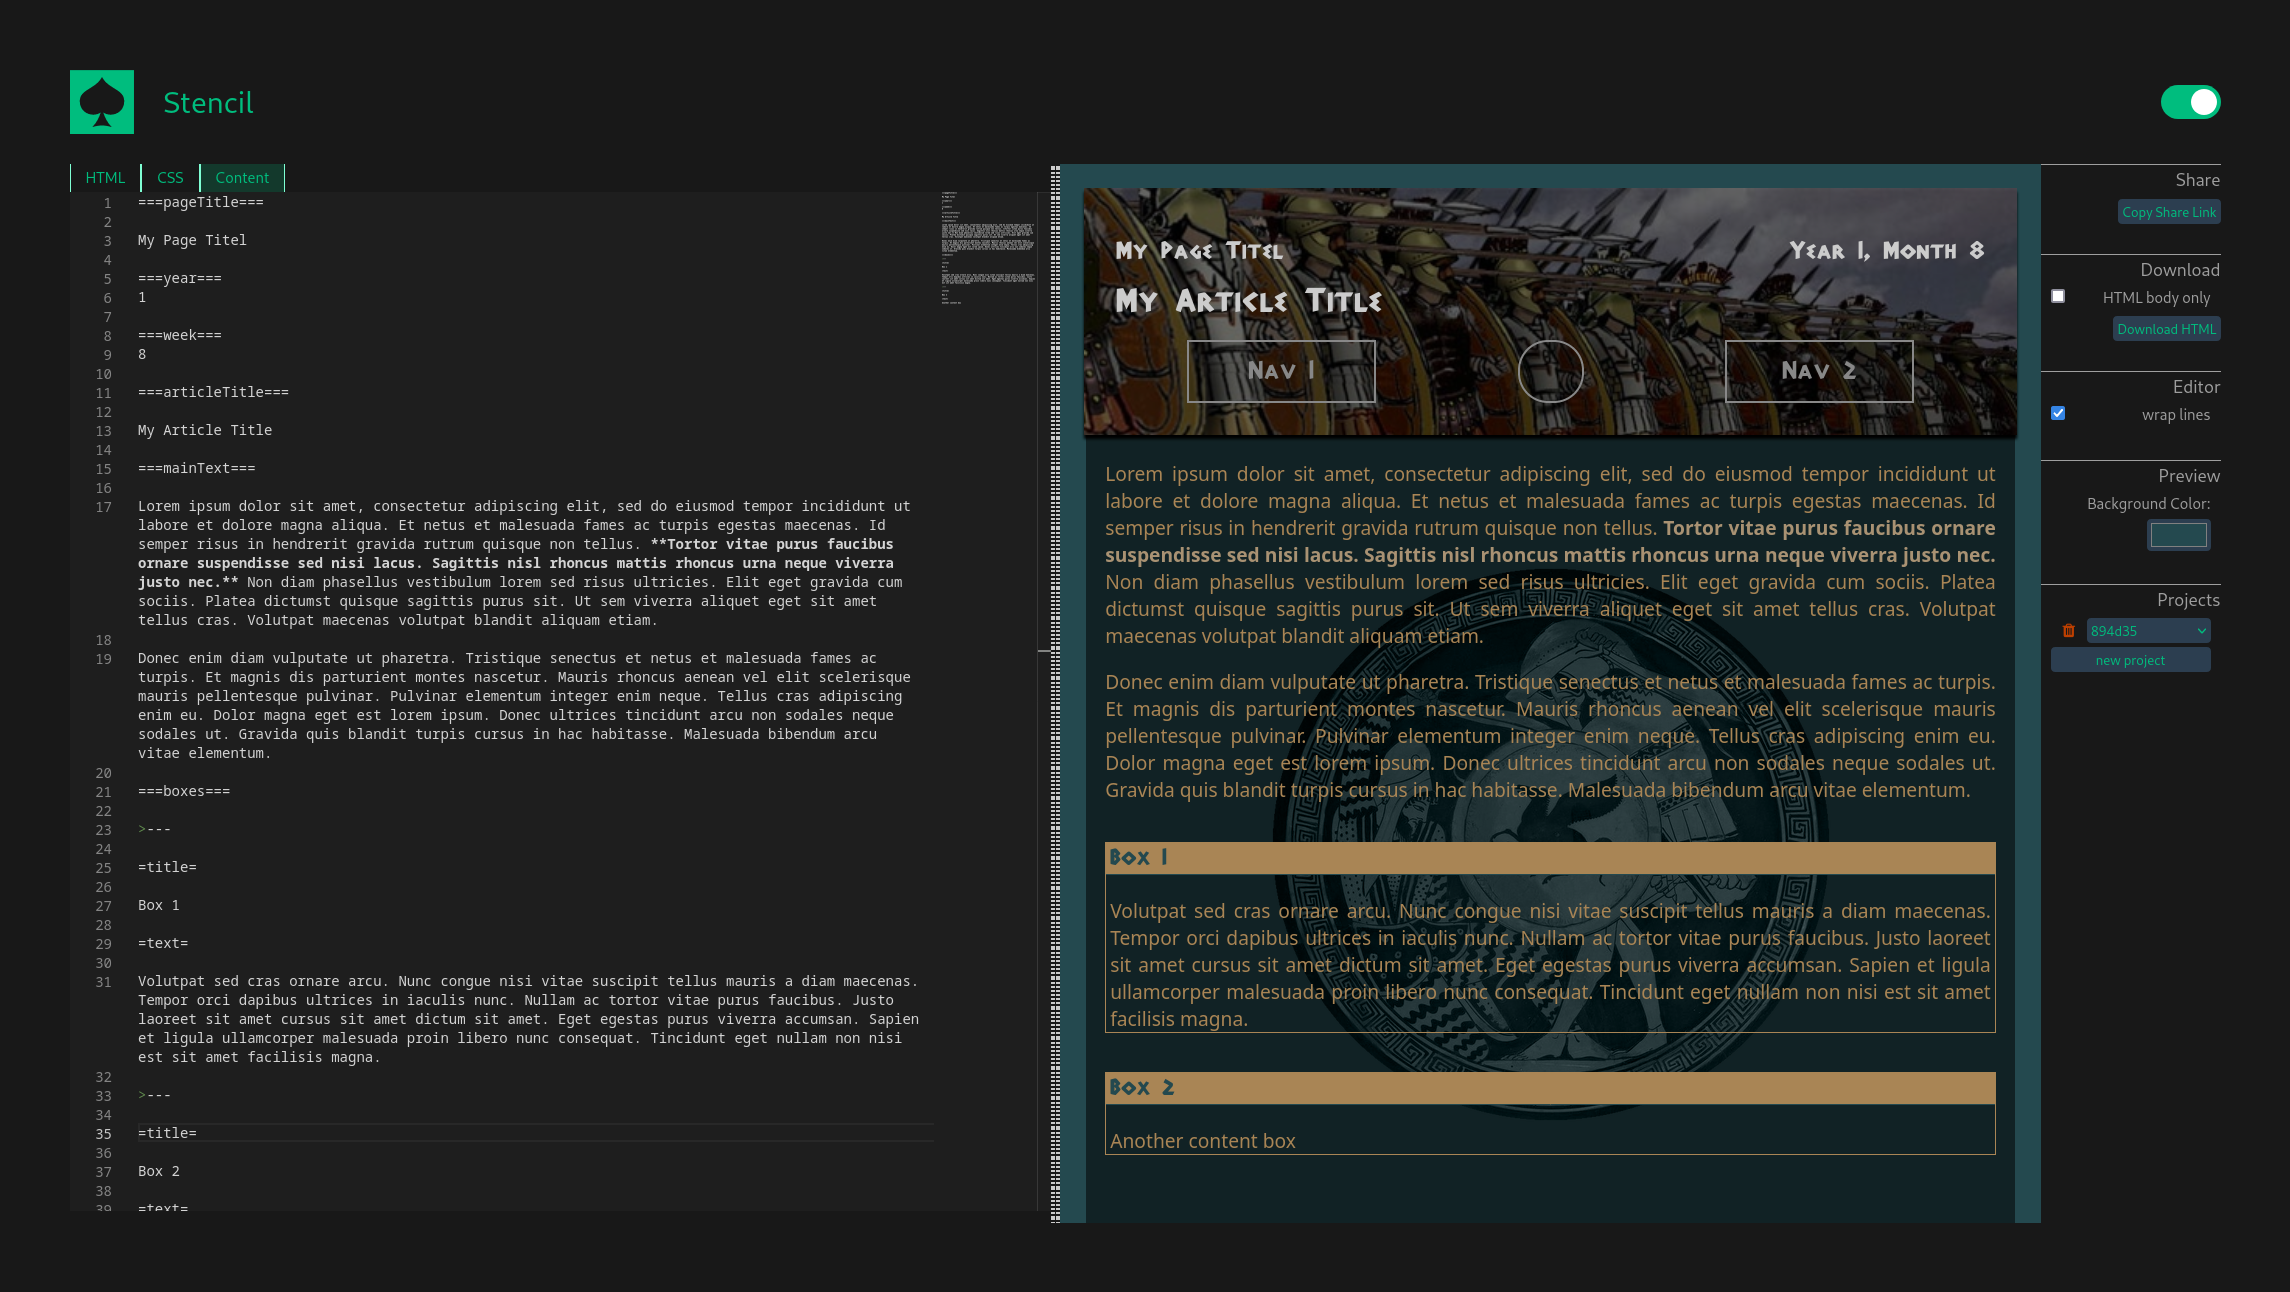
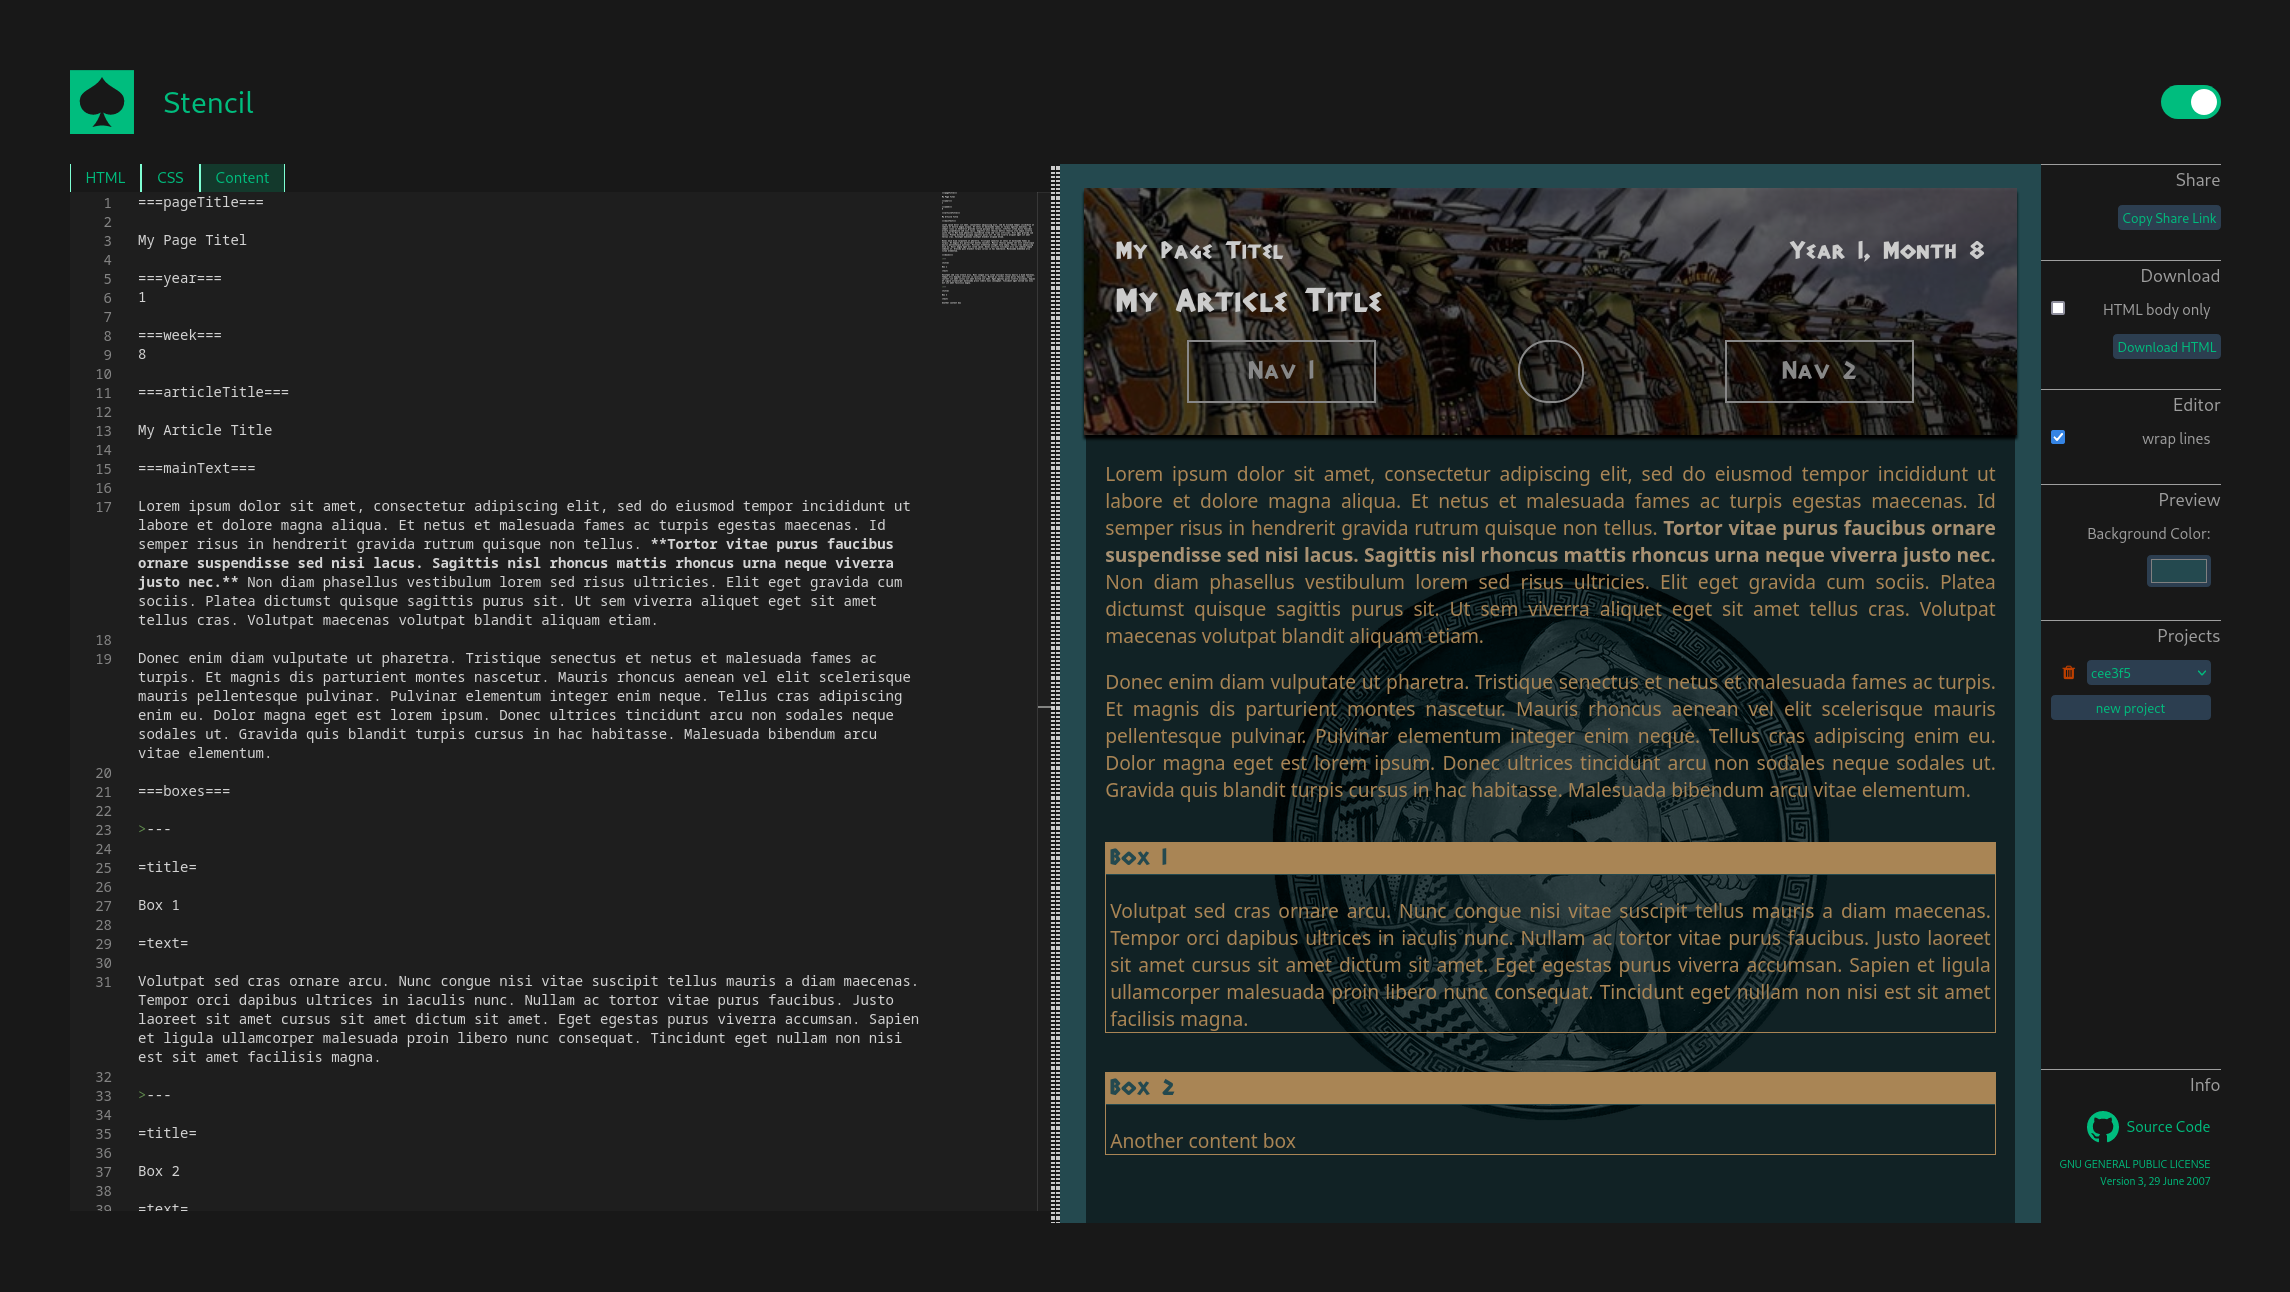
EditorView.vue: Include license information and link to source code

Changed region(s): [[0.8991, 0.1548, 0.9921, 0.5573], [0.8991, 0.8669, 0.9611, 0.9288]]

diff --git a/src/views/EditorView.vue b/src/views/EditorView.vue
@@ -223,6 +223,21 @@ const handleSessionDeletionChoice = (choice: string) => {
                     <button class="button" style="flex-grow: 1" @click="createSession()">new project</button>
                 </div>
             </div>
+            <div class="flex-spacer"></div>
+            <div class="settings-container">
+                <h3>Info</h3>
+                <div class="setting">
+                    <a class="gh-link" href="https://github.com/theCalcaholic/stencil">
+                        <svg height="32" aria-hidden="true" viewBox="0 0 16 16" version="1.1" width="32" data-view-component="true" class="octicon octicon-mark-github v-align-middle">
+                            <path d="M8 0c4.42 0 8 3.58 8 8a8.013 8.013 0 0 1-5.45 7.59c-.4.08-.55-.17-.55-.38 0-.27.01-1.13.01-2.2 0-.75-.25-1.23-.54-1.48 1.78-.2 3.65-.88 3.65-3.95 0-.88-.31-1.59-.82-2.15.08-.2.36-1.02-.08-2.12 0 0-.67-.22-2.2.82-.64-.18-1.32-.27-2-.27-.68 0-1.36.09-2 .27-1.53-1.03-2.2-.82-2.2-.82-.44 1.1-.16 1.92-.08 2.12-.51.56-.82 1.28-.82 2.15 0 3.06 1.86 3.75 3.64 3.95-.23.2-.44.55-.51 1.07-.46.21-1.61.55-2.33-.66-.15-.24-.6-.83-1.23-.82-.67.01-.27.38.01.53.34.19.73.9.82 1.13.16.45.68 1.31 2.69.94 0 .67.01 1.3.01 1.49 0 .21-.15.45-.55.38A7.995 7.995 0 0 1 0 8c0-4.42 3.58-8 8-8Z"></path>
+                        </svg>
+                        Source Code
+                    </a>
+                </div>
+                <div class="setting">
+                    <a class="text-align-right smaller-text" href="https://github.com/theCalcaholic/stencil/blob/main/LICENSE.md"> GNU GENERAL PUBLIC LICENSE<br/>Version 3, 29 June 2007</a>
+                </div>
+            </div>
         </div>
         <GenericDialog v-if="showDeleteActiveSessionDialog" @choice="handleSessionDeletionChoice" text="Delete active project?" :choices="['Yes', 'No']"/>
     </main>
@@ -273,7 +288,7 @@ main {
     display: flex;
     flex-direction: row;
     justify-content: space-between;
-    margin: .2em 10px;
+    margin: .6em 10px .2em;
     align-items: baseline;
 }
 .setting>label {
@@ -285,11 +300,26 @@ main {
 .setting>select {
     flex-grow: 1;
 }
+.setting a {
+    align-items: center;
+    display: flex;
+    width: 100%;
+    justify-content: flex-end;
+}
+a.gh-link {
+    padding: 4px 0;
+}
 .settings-pane>* {
     margin-bottom: 2em;
 }
 .main-container {
     display: flex;
+}
+.flex-spacer {
+    flex-grow: 1;
+}
+.smaller-text {
+    font-size: .7em;
 }
 
 .icon-button {
@@ -311,6 +341,15 @@ button {
       background-color .4s ease,
       outline-color .4s ease;
     outline: transparent solid 1px;
+}
+
+.text-align-right {
+    text-align: right;
+}
+
+.octicon {
+    fill: currentColor;
+    margin-right: .5em;
 }
 
 /* Darker background on mouse-over */
